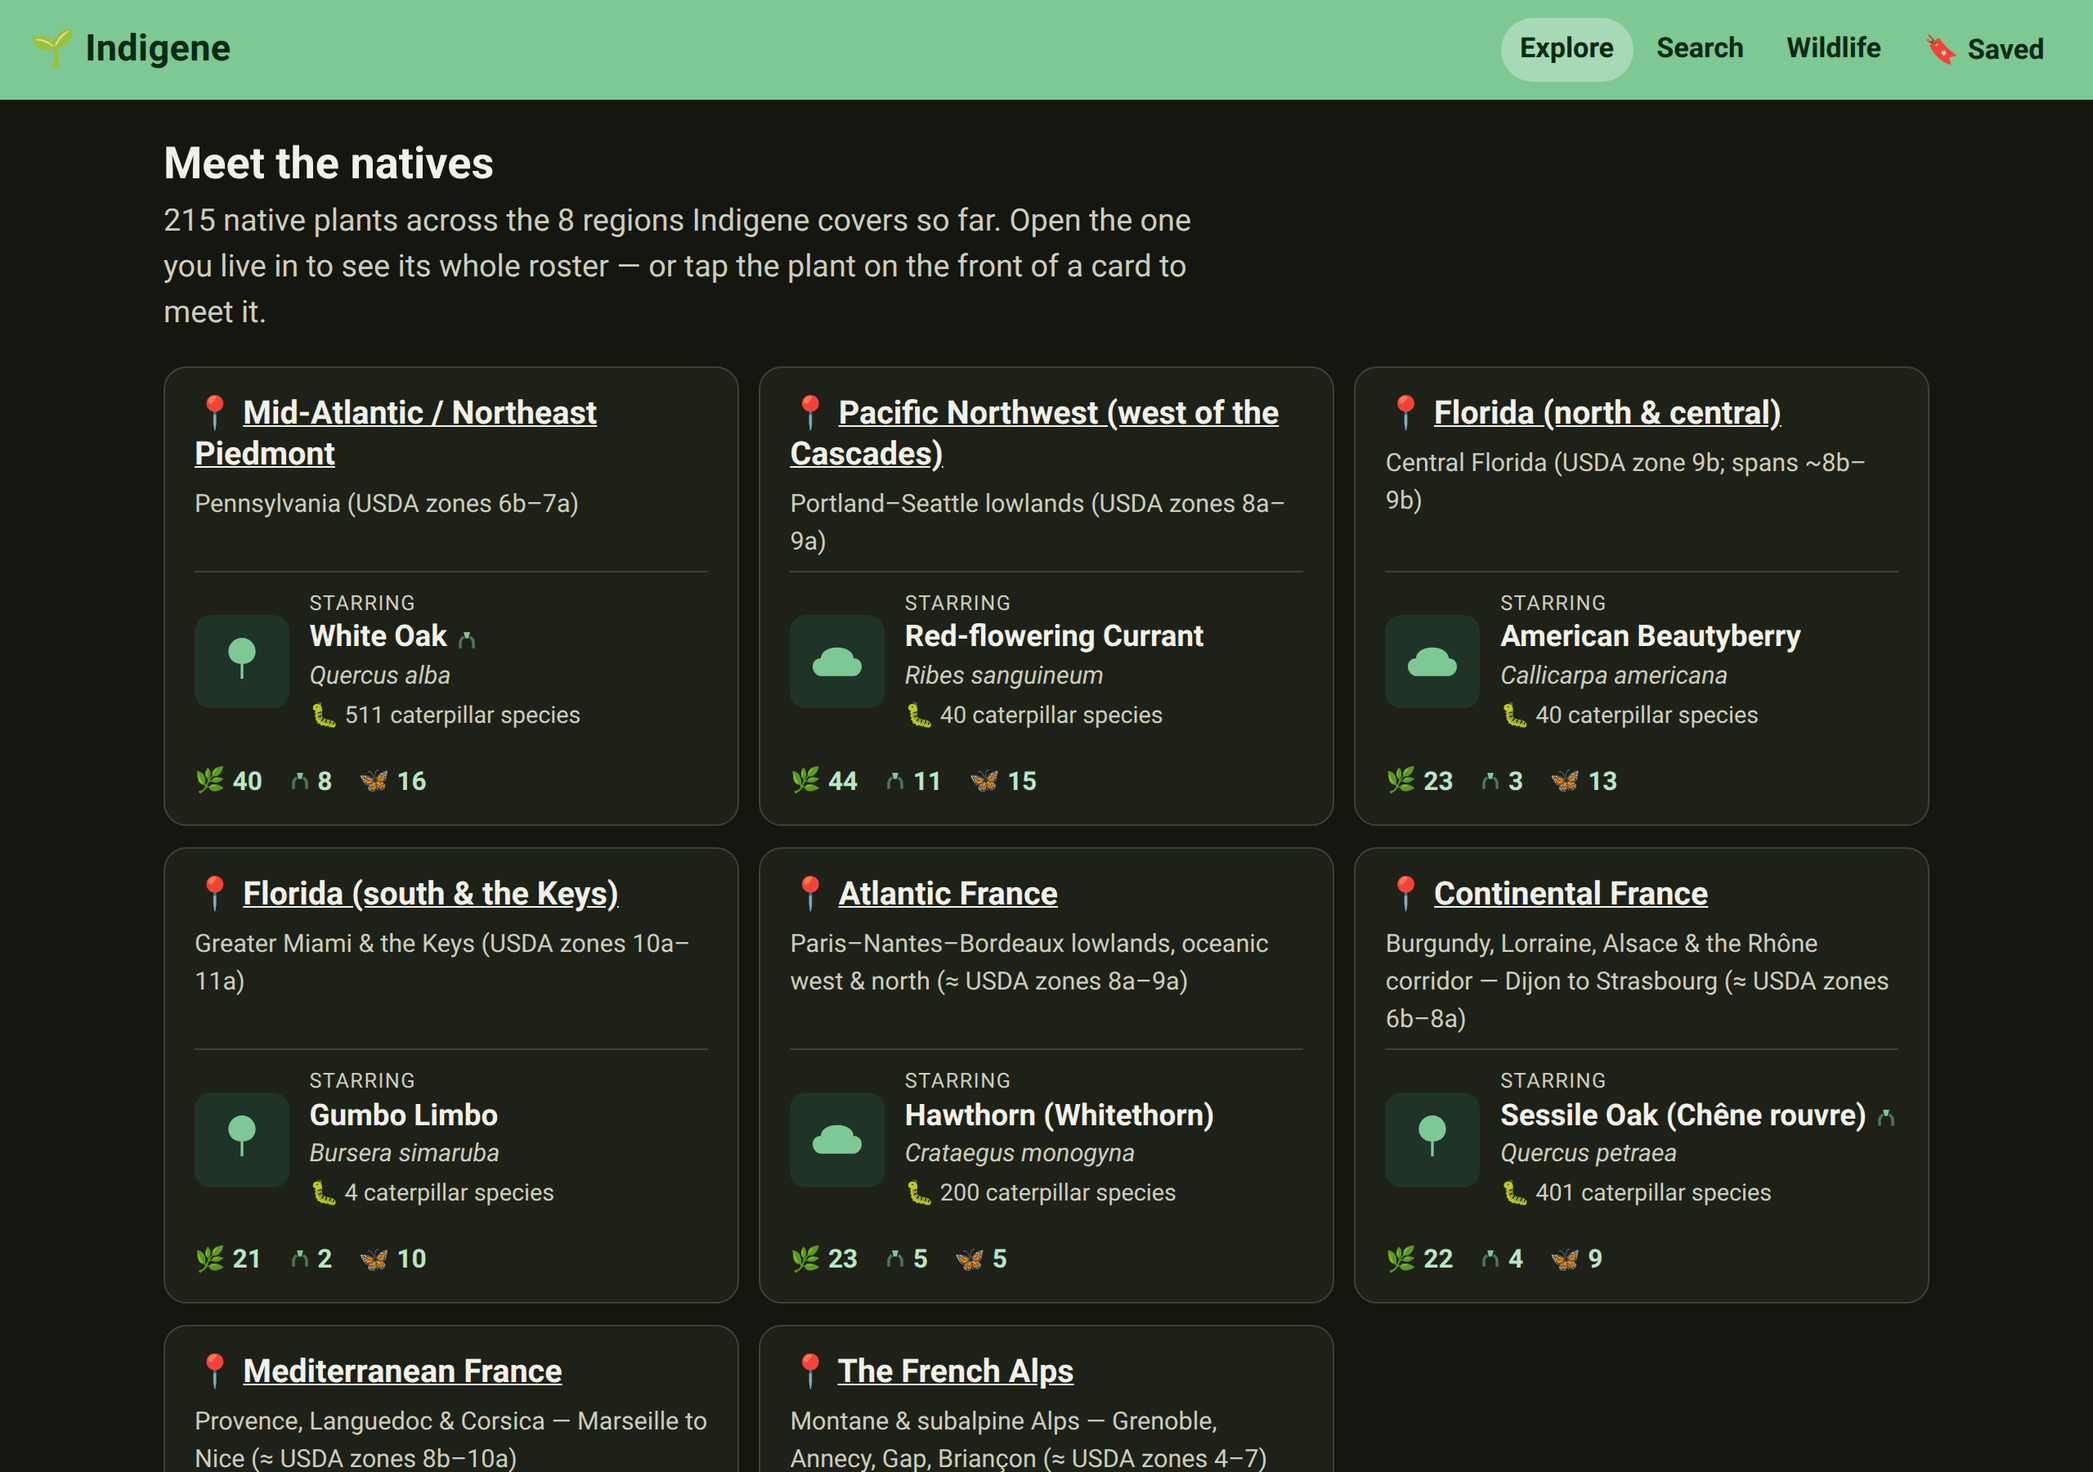
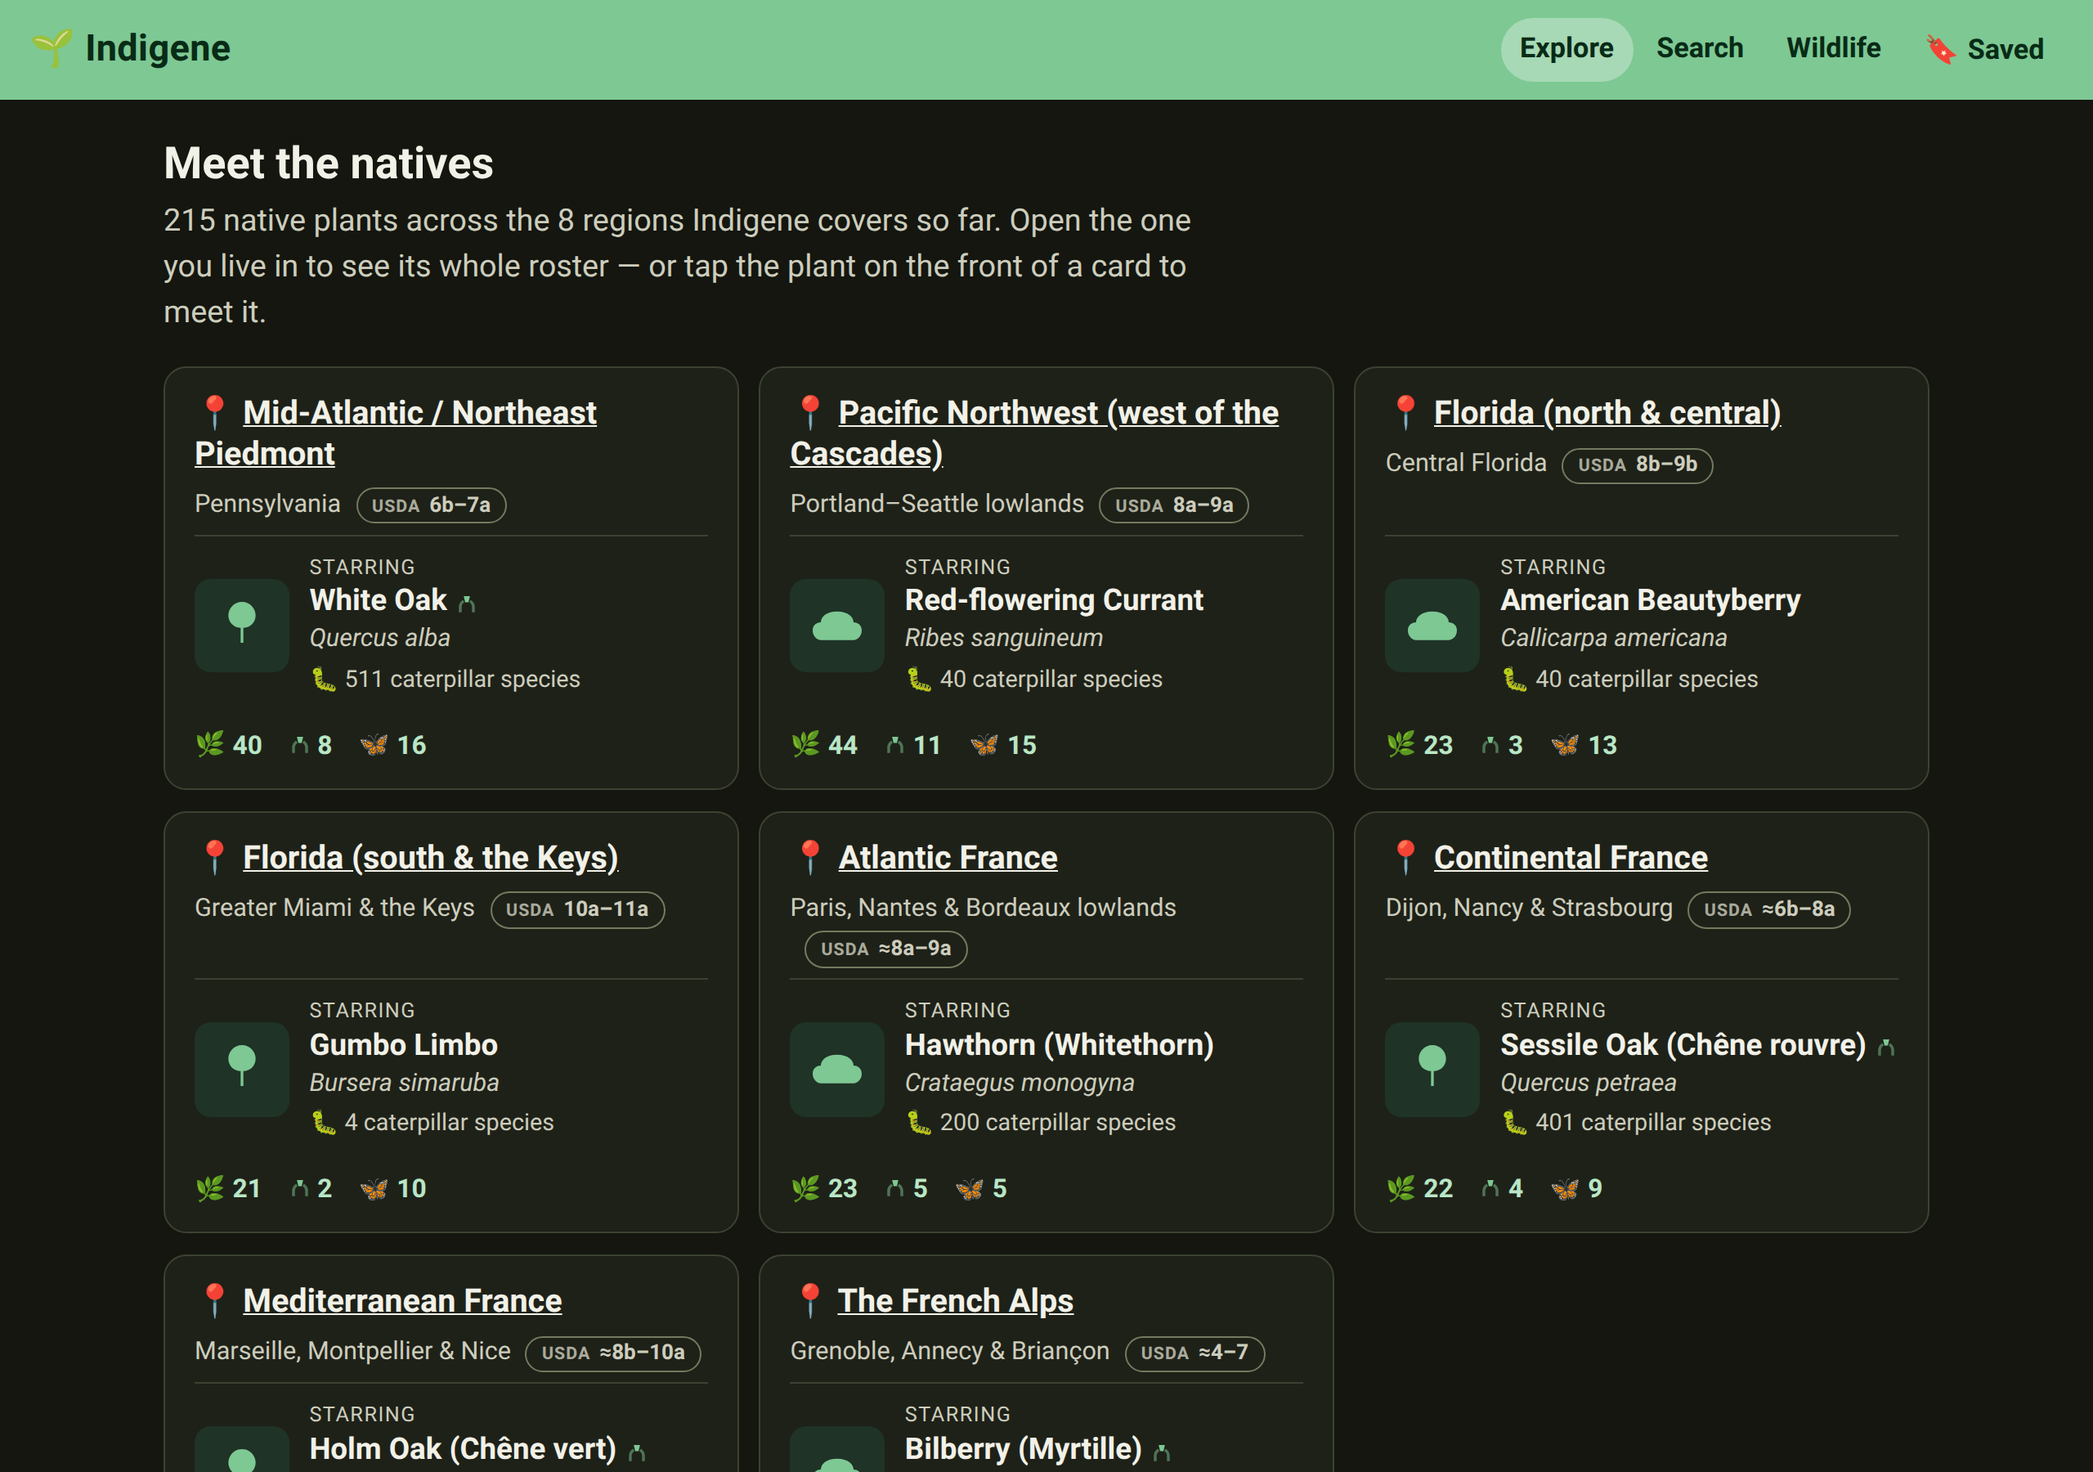
Give the USDA hardiness range its own badge
"Pennsylvania (USDA zones 6b–7a)" put the one scannable value on the line
inside a parenthetical, which read as an aside and made every reference
line longer. `RegionMeta` now carries the place and the range as separate
fields, and the range renders as a small `USDA 6b–7a` tag — the way a seed
packet or a nursery tag already presents it.

A tooltip (and the accessible name) carries what the zone means, and on the
French regions says the American scale is a translation there rather than
the local convention, which is what the "≈" in those ranges is for.

Two things worth noting about the shape of it:

- It's an outlined pill, not a bare vertical rule between the two halves. A
  rule looked right while both fit on one line and stranded itself the
  moment the chip wrapped below the place — which it does at phone width
  and on the longer French lines. A closed shape reads as deliberate in
  either position.
- The four French reference places got shorter with it ("Provence,
  Languedoc & Corsica — Marseille to Nice" → "Marseille, Montpellier &
  Nice"). The reference is meant to name the locale the numbers are tuned
  to; describing the region is the region name's job, and the long version
  cost three lines on a phone card.

The split is applied everywhere the reference appears, not just on the
Explore cards: the region page and its category pages, the browse list, and
the region pickers on the location and results screens.
[…]

diff --git a/app/src/styles.css b/app/src/styles.css
@@ -1822,3 +1822,58 @@ body[data-layout="wide"] .confidence,
 body[data-layout="wide"] .app-footer p {
   max-width: 36rem;
 }
+
+/* --- The USDA hardiness chip -------------------------------------------- */
+/* Split out of the reference string (see components/zone-chip.ts): the place
+   is prose, the zone is a value, and a value reads better as a badge than as a
+   parenthetical.
+
+   It's an outlined pill rather than a bare rule between the two halves. A
+   single vertical rule looks right while both fit on one line and stranded the
+   moment the chip wraps below the place — which it does on a phone, and on the
+   longer French reference lines. A closed shape reads as deliberate in either
+   position. */
+.zone-chip {
+  display: inline-flex;
+  align-items: baseline;
+  gap: 0.3rem;
+  margin-left: 0.5rem;
+  padding: 0.02rem 0.5rem;
+  border: 1px solid var(--line-strong);
+  border-radius: 999px;
+  font-size: 0.85em;
+  font-weight: 650;
+  color: var(--ink-soft);
+  white-space: nowrap;
+  /* A tooltip is the only place the caveat lives, so say it's hoverable — and
+     stay above any stretched card link that would otherwise eat the hover. */
+  cursor: help;
+  position: relative;
+  z-index: 1;
+}
+/* "USDA" is the scale's name, not part of the number — quieter, and the
+   letter-spacing keeps four capitals from reading as a shout. */
+.zone-chip-k {
+  font-weight: 700;
+  font-size: 0.82em;
+  letter-spacing: 0.05em;
+  opacity: 0.8;
+}
+/* The place half of a reference line, so the two can sit on one row and the
+   chip can drop below cleanly when there isn't room. */
+.zone-place {
+  min-width: 0;
+}
+.region-card-ref,
+.region-ref {
+  display: flex;
+  flex-wrap: wrap;
+  align-items: baseline;
+  row-gap: 0.15rem;
+}
+/* On the region page the line sits under the title, above the lede. */
+.region-ref {
+  margin: 0 0 0.4rem;
+  font-size: 0.95rem;
+  color: var(--ink-soft);
+}

diff --git a/app/src/steps/region.ts b/app/src/steps/region.ts
@@ -12,6 +12,7 @@ import type { RegionDef } from "../lib/plants";
 import { silhouetteFor } from "../components/plant-card";
 import { keystoneIcon } from "../components/keystone-icon";
 import { regionStatGrid } from "../components/region-stats";
+import { regionRefLine, zoneChip } from "../components/zone-chip";
 import type { Plant, PlantForm } from "../types";
 
 const FORM_ORDER: PlantForm[] = ["tree", "shrub", "perennial", "grass", "vine", "groundcover", "fern"];
@@ -83,6 +84,9 @@ export function renderRegion(main: HTMLElement, param?: string): void {
 
   main.append(
     el("h2", { class: "step-title" }, region.meta.name),
+    // The place in the sentence, the hardiness range as its own badge beside
+    // it — same split as the region cards on Explore.
+    regionRefLine(region.meta, "region-ref"),
     el("p", { class: "step-lede" },
       `Every native we know for ${region.meta.reference} — tap any plant for its full profile.`),
     regionStatGrid(region, plants),
@@ -137,8 +141,11 @@ function renderCategory(
     ]),
     el("h2", { class: "step-title" }, label),
     inForm.length
-      ? el("p", { class: "step-lede" },
-          `${inForm.length} native ${inForm.length === 1 ? "plant" : "plants"} for ${region.meta.reference} — tap any for its full profile.`)
+      ? el("p", { class: "step-lede" }, [
+          `${inForm.length} native ${inForm.length === 1 ? "plant" : "plants"} for ${region.meta.reference} `,
+          zoneChip(region.meta),
+          " — tap any for its full profile.",
+        ])
       : el("p", { class: "step-lede" },
           `Our ${region.meta.name} list has no ${label.toLowerCase()} yet — the seed lists are curated and grow carefully. Try another category, or the same category in a region below.`),
     ...(rows.length > 1 ? [filterField(rows, [])] : []),

diff --git a/app/src/components/zone-chip.ts b/app/src/components/zone-chip.ts
@@ -1,0 +1,34 @@
+// The USDA hardiness range as a small chip, shown beside the place a region's
+// numbers are tuned to.
+//
+// It used to ride inside the reference string as a parenthetical —
+// "Pennsylvania (USDA zones 6b–7a)" — which made the line longer, buried the
+// one part of it that is a standard, scannable value, and read as an aside.
+// Split out, the place is a place and the zone is a badge, the way every seed
+// packet and nursery tag already presents it.
+//
+// European regions carry a "≈" in `zones`, because USDA zones are a
+// translation there rather than the local convention; the tooltip says so
+// rather than leaving the squiggle to be guessed at.
+import type { RegionMeta } from "../data/region";
+import { el } from "../ui";
+
+export function zoneChip(meta: RegionMeta): HTMLElement {
+  const approx = meta.zones.startsWith("≈");
+  const range = approx ? meta.zones.slice(1) : meta.zones;
+  const label = approx
+    ? `Roughly USDA hardiness zones ${range} — the American scale is a translation here, not the local convention, so treat it as a guide to winter cold.`
+    : `USDA hardiness zones ${range} — the winter cold this region's plant list is tuned to.`;
+  return el("span", { class: "zone-chip", title: label, role: "img", "aria-label": label }, [
+    el("span", { class: "zone-chip-k" }, "USDA"),
+    meta.zones,
+  ]);
+}
+
+/** "Pennsylvania │ USDA 6b–7a" — the place, then the badge. */
+export function regionRefLine(meta: RegionMeta, className: string): HTMLElement {
+  return el("p", { class: className }, [
+    el("span", { class: "zone-place" }, meta.reference),
+    zoneChip(meta),
+  ]);
+}

diff --git a/app/src/data/plants.france-alpine.ts b/app/src/data/plants.france-alpine.ts
@@ -58,7 +58,8 @@ export type { RawPlant };
 export const REGION: RegionMeta = {
   id: "france-alpine",
   name: "The French Alps",
-  reference: "Montane & subalpine Alps — Grenoble, Annecy, Gap, Briançon (≈ USDA zones 4–7)",
+  reference: "Grenoble, Annecy & Briançon",
+  zones: "≈4–7",
   note: "Native status is asserted for the Alpine biogeographical region of metropolitan France, and this list is tuned to the Alps specifically: montane and subalpine ground, roughly 600–2,000 m. The Pyrenees share the same EEA designation but are a distinct flora with their own endemics, and are deliberately outside this list's coverage rather than guessed at. Below the mountains, the Continental, Atlantic and Mediterranean lists apply. Host-insect figures are counted from the open European Lepidoptera–plant matrix (Gaytán et al. 2026) for native, mountain-zone relatives of each plant.",
   // Coarse box over the French Alps only — from the Vercors and the Écrins
   // north to the Chablais, and from the Grésivaudan east to the Italian border.

diff --git a/app/src/data/region.ts b/app/src/data/region.ts
@@ -25,8 +25,21 @@ export interface RegionMeta {
   id: string;
   /** Human name shown in the UI, e.g. "Pacific Northwest (west of the Cascades)". */
   name: string;
-  /** The reference locale/zones the numbers are tuned to. */
+  /**
+   * The reference *place* the numbers are tuned to — "Pennsylvania",
+   * "Greater Miami & the Keys". Just the place: the hardiness range used to
+   * ride along in a parenthetical here, which made every line longer and
+   * buried the one part of it that is a standard, scannable value. That now
+   * lives in `zones` and is shown as its own chip.
+   */
   reference: string;
+  /**
+   * The USDA hardiness range the list is tuned to, as a bare range ready to
+   * follow the word "USDA" — "6b–7a", "10a–11a". European regions prefix a
+   * "≈" because USDA zones are a translation there, not the local convention:
+   * "≈8a–9a".
+   */
+  zones: string;
   /** Plain-language caveat about what "native here" means for this region. */
   note: string;
   /**

diff --git a/app/src/data/plants.france-continental.ts b/app/src/data/plants.france-continental.ts
@@ -48,7 +48,8 @@ export type { RawPlant };
 export const REGION: RegionMeta = {
   id: "france-continental",
   name: "Continental France",
-  reference: "Burgundy, Lorraine, Alsace & the Rhône corridor — Dijon to Strasbourg (≈ USDA zones 6b–8a)",
+  reference: "Dijon, Nancy & Strasbourg",
+  zones: "≈6b–8a",
   note: "Native status is asserted for the Continental biogeographical region of metropolitan France — the centre and east, with colder winters and hotter summers than the Atlantic coast. The oceanic west, the Mediterranean south and the Alps are different floras with their own lists; treat these recommendations as untested there. Host-insect figures are counted from the open European Lepidoptera–plant matrix (Gaytán et al. 2026) for native, continental-temperate relatives of each plant.",
   // Coarse box over the continental centre and east: Burgundy, Franche-Comté,
   // Lorraine, Alsace and the Rhône valley. It overlaps the Atlantic France box

diff --git a/app/src/data/plants.france-atlantic.ts b/app/src/data/plants.france-atlantic.ts
@@ -46,7 +46,8 @@ export type { RawPlant };
 export const REGION: RegionMeta = {
   id: "france-atlantic",
   name: "Atlantic France",
-  reference: "Paris–Nantes–Bordeaux lowlands, oceanic west & north (≈ USDA zones 8a–9a)",
+  reference: "Paris, Nantes & Bordeaux lowlands",
+  zones: "≈8a–9a",
   note: "Native status is asserted for the Atlantic (oceanic) biogeographical region of metropolitan France — the mild, rainy west and north. The Mediterranean south, the Alps and Pyrenees, and the drier Continental east are different floras and are planned as their own regions; treat these recommendations as untested there. Host-insect figures are counted from the open European Lepidoptera–plant matrix (Gaytán et al. 2026) for native, oceanic-temperate relatives of each plant.",
   // Coarse box over the Atlantic-influenced west & north of metropolitan France,
   // from the Pyrenean foot (~43° N) to the Channel/Belgian border (~51.2° N),

diff --git a/app/src/steps/explore.ts b/app/src/steps/explore.ts
@@ -16,6 +16,7 @@ import { wildlifeCountForRegion } from "../lib/wildlife";
 import { silhouetteFor } from "../components/plant-card";
 import { keystoneIcon } from "../components/keystone-icon";
 import { cardStats } from "../components/card-stats";
+import { regionRefLine } from "../components/zone-chip";
 
 export function renderExplore(main: HTMLElement): void {
   clear(main);
@@ -68,7 +69,7 @@ function regionCard(region: RegionDef): HTMLElement {
       el("span", { "aria-hidden": "true" }, "📍 "),
       el("a", { href: `#/regions/${region.meta.id}` }, region.meta.name),
     ]),
-    el("p", { class: "region-card-ref" }, region.meta.reference),
+    regionRefLine(region.meta, "region-card-ref"),
     el("a", { class: "region-card-star", href: `#/plants/${p.id}` }, [
       el("span", { class: "plant-photo", "aria-hidden": "true" }, [silhouetteFor(p.form)]),
       el("span", { class: "region-card-star-text" }, [

diff --git a/app/src/data/plants.france-mediterranean.ts b/app/src/data/plants.france-mediterranean.ts
@@ -49,7 +49,8 @@ export type { RawPlant };
 export const REGION: RegionMeta = {
   id: "france-mediterranean",
   name: "Mediterranean France",
-  reference: "Provence, Languedoc & Corsica — Marseille to Nice (≈ USDA zones 8b–10a)",
+  reference: "Marseille, Montpellier & Nice",
+  zones: "≈8b–10a",
   note: "Native status is asserted for the Mediterranean biogeographical region of metropolitan France — the hot, dry south and Corsica. The oceanic west, the Continental east and the Alps are different floras with their own lists; treat these recommendations as untested there. Host-insect figures are counted from the open European Lepidoptera–plant matrix (Gaytán et al. 2026) for native, Mediterranean-zone relatives of each plant.",
   // Coarse box over the French Mediterranean: the coast and its hinterland from
   // the Spanish border eastward to Menton, plus Corsica. It deliberately

diff --git a/app/src/steps/browse.ts b/app/src/steps/browse.ts
@@ -5,6 +5,7 @@ import { el, clear } from "../ui";
 import { navigate } from "../state";
 import { REGIONS } from "../lib/plants";
 import { featuredPlant } from "../lib/explore";
+import { zoneChip } from "../components/zone-chip";
 import { ISSUES_URL } from "../lib/plain";
 
 export function renderBrowse(main: HTMLElement): void {
@@ -21,7 +22,8 @@ export function renderBrowse(main: HTMLElement): void {
       el("ul", { style: "margin:0.4rem 0 0.6rem;padding-left:1.2rem" },
         REGIONS.map((r) => el("li", { style: "margin-bottom:0.3rem" }, [
           el("a", { href: `#/regions/${r.meta.id}`, style: "font-weight:650" }, r.meta.name),
-          ` — ${r.meta.reference}`,
+          ` — ${r.meta.reference} `,
+          zoneChip(r.meta),
         ]))
       ),
       el("p", { style: "margin:0" }, [

diff --git a/app/src/steps/location.ts b/app/src/steps/location.ts
@@ -4,6 +4,7 @@ import { fetchSite } from "../lib/site";
 import { searchPlaces, placeLabel } from "../lib/geocode";
 import { REGIONS } from "../lib/plants";
 import { regionForCoords } from "../data/regions";
+import { zoneChip } from "../components/zone-chip";
 import { ISSUES_URL } from "../lib/plain";
 import { TILE_SIZE, getTile, metersPerPixel, tileCoords } from "../lib/tiles";
 import { whyThis } from "../components/learn";
@@ -349,7 +350,7 @@ export function renderLocation(main: HTMLElement): void | (() => void) {
           },
         }, [
           el("span", { class: "choice-title" }, r.meta.name),
-          el("span", { class: "choice-sub" }, r.meta.reference),
+          el("span", { class: "choice-sub" }, [r.meta.reference, " ", zoneChip(r.meta)]),
         ])
       )
     );

diff --git a/app/src/steps/results.ts b/app/src/steps/results.ts
@@ -1,6 +1,7 @@
 import { el, clear, toast } from "../ui";
 import { navigate, store, persistPrefs } from "../state";
 import { loadPlants, regionForSite, REGIONS } from "../lib/plants";
+import { zoneChip } from "../components/zone-chip";
 import { rankPlants, siteMoisture } from "../lib/ranking";
 import type { Weights } from "../types";
 import { plantCard } from "../components/plant-card";
@@ -314,7 +315,7 @@ function renderNoRegion(main: HTMLElement): void {
           },
         }, [
           el("span", { class: "choice-title" }, r.meta.name),
-          el("span", { class: "choice-sub" }, r.meta.reference),
+          el("span", { class: "choice-sub" }, [r.meta.reference, " ", zoneChip(r.meta)]),
         ])
       ),
     ]),
